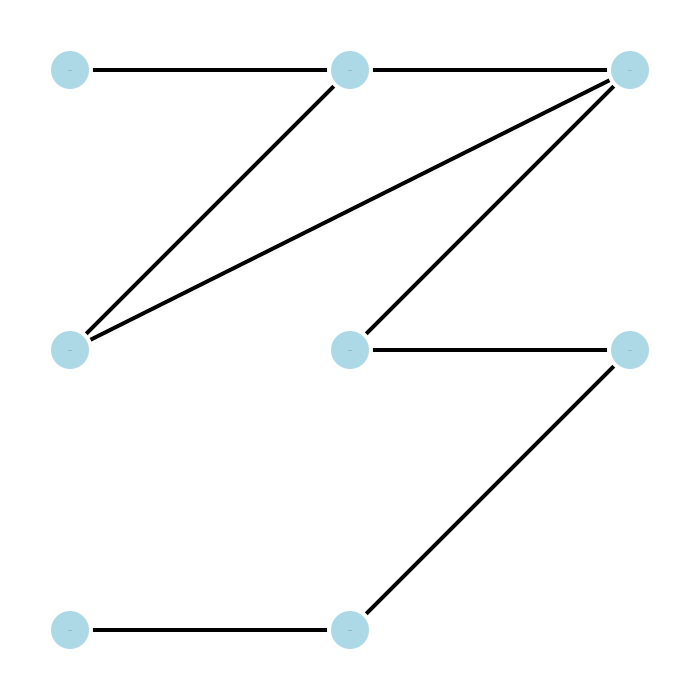
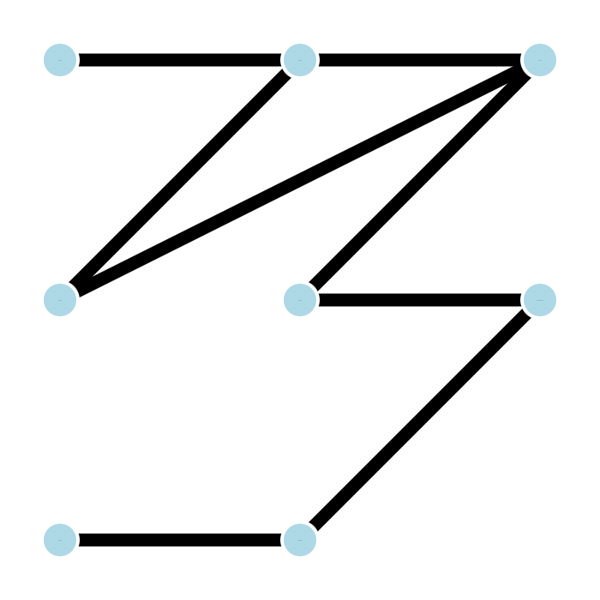
Updated version of the simulation with correct images and constants file

Changed region(s): [[0.12, 0.09, 0.9, 0.9], [0.12, 0.87, 0.48, 0.93]]

diff --git a/src/simulation.py b/src/simulation.py
@@ -1,33 +1,28 @@
 import pygame
-from graph import create_graph, pad_img
+from graph import preprocess_graph
+from constants import IMG_NAME, OFFSET_LABEL_X_NAME, OFFSET_LABEL_X_TYPE,\
+    OFFSET_LABEL_Y_TYPE, OFFSET_LABEL_Y_NAME, WIDTH_DISPLAY, HEIGHT_DISPLAY, MARGIN_DISPLAY,\
+    IMG_SIZE, DEVIATION_FACTOR, WHITE_COLOR, BLACK_COLOR, CAPTION, HELVETICA_FONT_SIZE_NAME,\
+    HELVETICA_FONT_SIZE_TYPE
 
-
-WIDTH = 900
-HEIGHT = 900
-MARGIN = 48
-NODE_RAD = 21
-IMG_SIZE = 600
-DEVIATION_FACTOR = 20
-
-WHITE_COLOR = (255,255,255)
-
-CAPTION = "Simulación de la casa"
 
 NUM_VERT = 8
 EDGES = [[0, 1], [2, 3], [1, 2], [1, 3], [4, 2], [4, 5], [6, 7], [7, 5]]
 TYPES = ["H", "H", "P", "H", "H", "P", "H", "H"]
-NAMES = ["hab1", "hab2", "pas1", "hab3", "hab4", "pas2", "hab5", "hab6"]
+NAMES = ["hab1", "hab2", "pas1", "hab3", "hab4", "paaaaaa2", "hab5", "hab6"]
 
 
 class Simulation(object):
     '''Class for the house simulation'''
 
     def __init__(self, num_vert, edges, types, names):
-        img_name, node_coords = create_graph("house_graph.png",
-            num_vert, edges, types, names)
-        pad_img(img_name)
+        node_coords = preprocess_graph(IMG_NAME, num_vert, edges, types, names)
 
         self.node_coords = node_coords
+        self.name_type = {}
+
+        for i in range(len(types)):
+            self.name_type.update({names[i]:types[i]})
 
 
     def run(self):
@@ -35,19 +30,23 @@ class Simulation(object):
 
         pygame.init()
 
-        display_surface = pygame.display.set_mode((WIDTH, HEIGHT))
+        display_surface = pygame.display.set_mode((WIDTH_DISPLAY, HEIGHT_DISPLAY))
         display_surface.fill(WHITE_COLOR)
         pygame.display.set_caption(CAPTION)
 
-        center_img = pygame.image.load(r'pm.png')
+        center_img = pygame.image.load(r'images/BaseRoom.png')
         house_img = pygame.image.load(r'house_graph.png')
+
+        display_surface.blit(house_img, (0, 0))
+        pygame.draw.line(display_surface, BLACK_COLOR, (HEIGHT_DISPLAY,0),
+            (HEIGHT_DISPLAY,HEIGHT_DISPLAY), 5)
+
+        self.mark_centers(display_surface, center_img)
+        self.add_labels(display_surface)
 
         running = True
 
         while running:
-            display_surface.blit(house_img, (0, 0))
-
-            self.mark_centers(display_surface, center_img)
 
             for event in pygame.event.get():
                 if event.type == pygame.QUIT:
@@ -63,13 +62,52 @@ class Simulation(object):
         for coords in self.node_coords.values():
             if coords[1] < max_row:
                 display_surface.blit(center_img,
-                    ((MARGIN + (IMG_SIZE/max_row) * coords[0]) - DEVIATION_FACTOR * coords[0],
-                    (MARGIN + (IMG_SIZE/max_col) * coords[1]) - DEVIATION_FACTOR * coords[1]))
+                    ((MARGIN_DISPLAY + (IMG_SIZE/max_row) * coords[0]) \
+                        - DEVIATION_FACTOR * coords[0],
+                    (MARGIN_DISPLAY + (IMG_SIZE/max_col) * coords[1]) \
+                        - DEVIATION_FACTOR * coords[1]))
             else:
                 if [coords[0],coords[1]] in self.node_coords.values():
                     display_surface.blit(center_img,
-                    ((MARGIN + (IMG_SIZE/max_row) * coords[0]) - DEVIATION_FACTOR * coords[0],
-                    (MARGIN + (IMG_SIZE/max_col) * coords[1]) - DEVIATION_FACTOR * coords[1]))
+                    ((MARGIN_DISPLAY + (IMG_SIZE/max_row) * coords[0]) \
+                        - DEVIATION_FACTOR * coords[0],
+                    (MARGIN_DISPLAY + (IMG_SIZE/max_col) * coords[1]) \
+                        - DEVIATION_FACTOR * coords[1]))
+
+
+    def add_labels(self, display_surface):
+        '''Adds the necessary labels to the simulation'''
+
+        max_row, max_col = self.get_max_row_col_coords()
+
+        for name, coords in self.node_coords.items():
+
+            # Type labels
+            helvetica_font = pygame.font.SysFont('helvetica', HELVETICA_FONT_SIZE_TYPE)
+            type_room = self.name_type[name]
+            type_label = helvetica_font.render(type_room, HELVETICA_FONT_SIZE_TYPE, BLACK_COLOR)
+
+            first_coord = (MARGIN_DISPLAY + (IMG_SIZE/max_row) * coords[0]) \
+                - DEVIATION_FACTOR * coords[0] + OFFSET_LABEL_X_TYPE
+            second_coord = (MARGIN_DISPLAY + (IMG_SIZE/max_col) * coords[1]) \
+                - DEVIATION_FACTOR * coords[1] + OFFSET_LABEL_Y_TYPE
+
+            display_surface.blit(type_label, (first_coord, second_coord))
+
+            # Name labels
+            if len(name) > 7:
+                name = name[:6] + '...'
+
+            helvetica_font = pygame.font.SysFont('helvetica', HELVETICA_FONT_SIZE_NAME)
+            name_label = helvetica_font.render(name, HELVETICA_FONT_SIZE_NAME, BLACK_COLOR)
+
+            first_coord = (MARGIN_DISPLAY + (IMG_SIZE/max_row) * coords[0]) \
+                - DEVIATION_FACTOR * coords[0] + OFFSET_LABEL_X_NAME
+            second_coord = (MARGIN_DISPLAY + (IMG_SIZE/max_col) * coords[1]) \
+                - DEVIATION_FACTOR * coords[1] + OFFSET_LABEL_Y_NAME
+
+            display_surface.blit(name_label, (first_coord, second_coord))
+
 
     def get_max_row_col_coords(self):
         '''Gets the number of rows and columns in the graph'''

diff --git a/src/graph.py b/src/graph.py
@@ -1,9 +1,10 @@
 import igraph as ig
-import cv2
 from PIL import Image, ImageOps
+from constants import RESIZE_VALUE, VERTEX_SIZE, VERTEX_FRAME_WIDTH, VERTEX_LABEL_SIZE,\
+    EDGE_WIDTH, MARGIN, IMG_NAME
 
 
-def create_graph(img_name, num_vert, edges, types, names):
+def create_graph(num_vert, edges, types, names):
     '''Generates an image containing the graph representation'''
 
     graph = ig.Graph(num_vert, edges)
@@ -14,15 +15,15 @@ def create_graph(img_name, num_vert, edges, types, names):
 
     ig.plot(
         graph,
-        target = img_name,
+        target = IMG_NAME,
         layout = lay,
-        vertex_size = 42,
+        vertex_size = VERTEX_SIZE,
         vertex_color = "lightblue",
-        vertex_frame_width = 4.0,
+        vertex_frame_width = VERTEX_FRAME_WIDTH,
         vertex_frame_color = "white",
         vertex_label = graph.vs["name"],
-        vertex_label_size = 1.0,
-        edge_width = 4,
+        vertex_label_size = VERTEX_LABEL_SIZE,
+        edge_width = EDGE_WIDTH,
         edge_color = "black",
     )
 
@@ -31,12 +32,30 @@ def create_graph(img_name, num_vert, edges, types, names):
     for vert in range(num_vert):
         node_coords.update({graph.vs["name"][vert]:lay.coords[vert]})
 
-    return img_name, node_coords
+    return node_coords
 
 
 def pad_img(img_name):
     '''Adds margins to a given image'''
 
     img = Image.open(img_name)
-    img_with_border = ImageOps.expand(img, border = 50, fill = 'white')
+    img_with_border = ImageOps.expand(img, border = MARGIN, fill = 'white')
     img_with_border.save(img_name)
+
+
+def resize_img(img_name):
+    '''Resizes a given image'''
+
+    img = Image.open(img_name)
+    img_resize = img.resize(RESIZE_VALUE)
+    img_resize.save(img_name)
+
+
+def preprocess_graph(img_name, num_vert, edges, types, names):
+    '''Preprocesses a graph to output an image'''
+
+    node_coords = create_graph(num_vert, edges, types, names)
+    pad_img(img_name)
+    resize_img(img_name)
+
+    return node_coords

diff --git a/src/constants.py b/src/constants.py
@@ -1,0 +1,35 @@
+''' GRAPH CONSTANTS '''
+
+IMG_NAME = "house_graph.png"
+
+VERTEX_SIZE = 42
+VERTEX_FRAME_WIDTH = 4.0
+VERTEX_LABEL_SIZE = 1.0
+
+EDGE_WIDTH = 15
+
+MARGIN = 50
+RESIZE_VALUE = (600, 600)
+
+
+''' PYGAME CONSTANTS '''
+
+WIDTH_DISPLAY = 1200
+HEIGHT_DISPLAY = 600
+MARGIN_DISPLAY = 37
+NODE_RADIUS = 21
+IMG_SIZE = 500
+DEVIATION_FACTOR = 10
+
+OFFSET_LABEL_X_TYPE = 4
+OFFSET_LABEL_Y_TYPE = 2
+OFFSET_LABEL_X_NAME = 25
+OFFSET_LABEL_Y_NAME = 6
+
+WHITE_COLOR = (255,255,255)
+BLACK_COLOR = (0,0,0)
+
+HELVETICA_FONT_SIZE_TYPE = 20
+HELVETICA_FONT_SIZE_NAME = 11
+
+CAPTION = "ADL"
